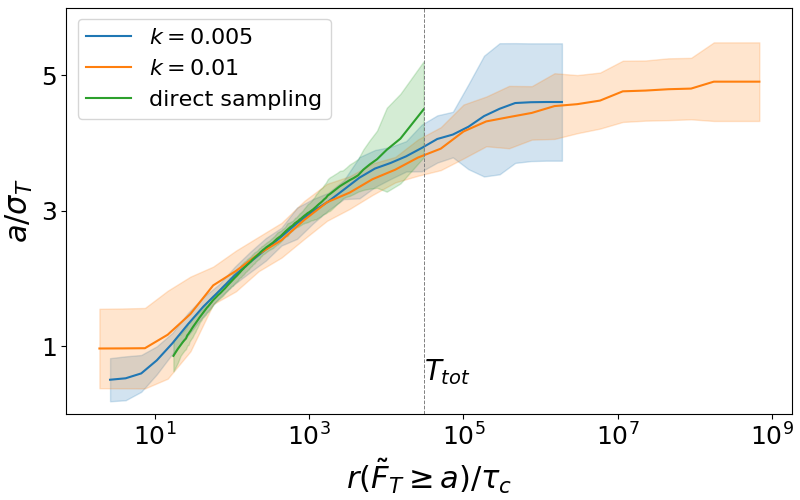
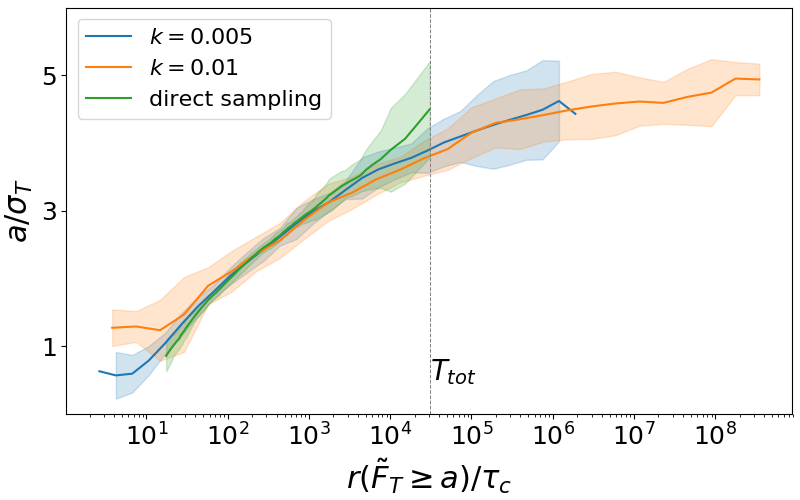
Swith from `next` to `linear` in interpolation for return times

diff --git a/figures/return_times_GKTL/plot_return_times_GKTL.py b/figures/return_times_GKTL/plot_return_times_GKTL.py
@@ -14,7 +14,7 @@ def get_interpolated_return_times(directories, Ta, T, k, N, nb_points=10):
         a, ra = rtt.compute_return_times_no_dups(dirname, Ta,
                                                  T, k, N)
         rmax[i] = np.amax(ra); rmin[i] = np.amin(ra)
-        interpolants.append(interpolate.interp1d(ra, a, kind='next', fill_value='extrapolate'))
+        interpolants.append(interpolate.interp1d(ra, a, kind='slinear', bounds_error=False))
     ra_interp = np.logspace(np.log(np.amin(rmin))/np.log(10),
                             np.log(np.amax(rmax))/np.log(10), nb_points)
     
